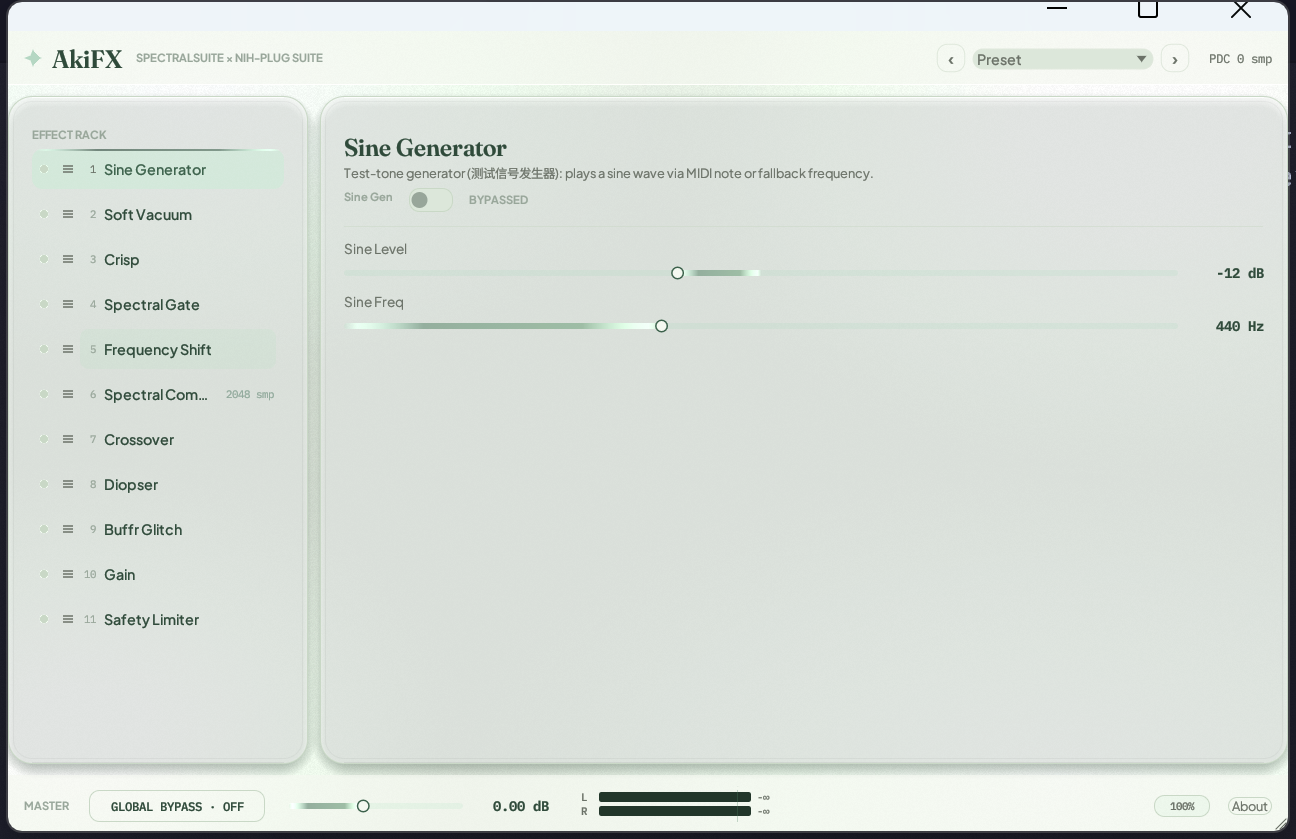
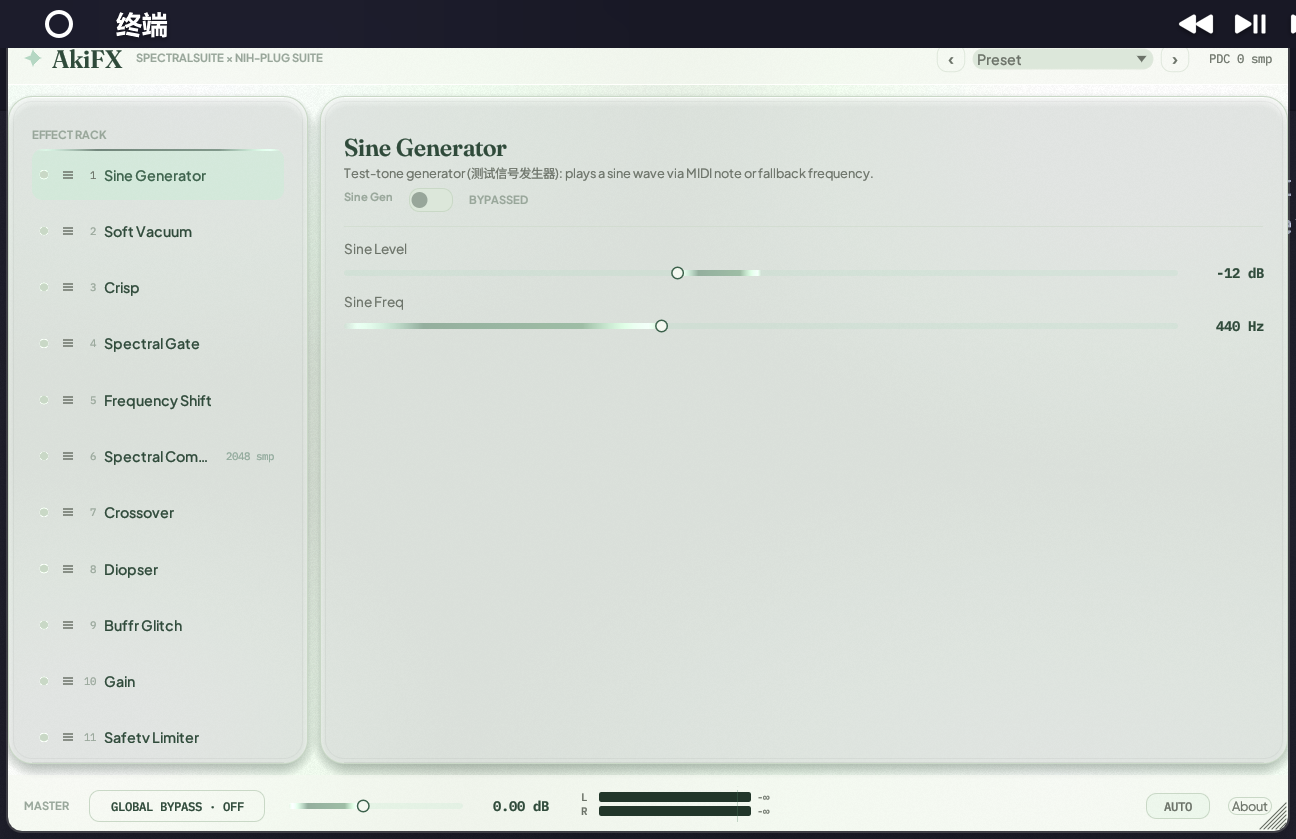
feat(gui): AUTO zoom follows system DPI, rack rows fill the card
- new installs default to AUTO zoom: font sizes multiply the system display
  scale (baseview presents one physical pixel per point on Windows, so the
  window default/min sizes scale by the same factor — 1280x800 design points
  become e.g. 1920x1200 at 150%); the footer zoom button cycles
  AUTO/60-200% and reads AUTO
- the resize grip is bigger and easier to find (26px corner)
- rack rows share the card height exactly at default zoom (deterministic
  region from the card content rect), clamped so zoomed text scrolls
- visual gate passes; tests 183+32 green

diff --git a/akifx/src/gui/mod.rs b/akifx/src/gui/mod.rs
@@ -29,8 +29,26 @@ use theme::pal;
 // Constants
 // ---------------------------------------------------------------------------
 
-/// Default window dimensions (width, height).
-const DEFAULT_SIZE: (u32, u32) = (1280, 800);
+/// Default window dimensions in design points (width, height). The physical
+/// window is this multiplied by the system display scale — baseview presents
+/// at one physical pixel per point, so the DPI factor must be applied here
+/// as well as to the type sizes.
+const DEFAULT_SIZE: (f32, f32) = (1280.0, 800.0);
+/// Smallest usable editor size in design points.
+const MIN_SIZE: (f32, f32) = (1040.0, 680.0);
+
+/// The system display scale (1.0 on unscaled displays).
+fn dpi() -> f32 {
+    theme::system_scale_factor()
+}
+
+/// Default window size in physical pixels.
+fn default_window_size() -> (u32, u32) {
+    (
+        (DEFAULT_SIZE.0 * dpi()).round() as u32,
+        (DEFAULT_SIZE.1 * dpi()).round() as u32,
+    )
+}
 /// Row height for each rack entry.
 const ROW_HEIGHT: f32 = 40.0;
 /// Title bar height.
@@ -97,19 +115,25 @@ fn next_rack_position(cur_pos: usize, count: usize, key: egui::Key) -> usize {
 // T6: Zoom step helper
 // ---------------------------------------------------------------------------
 
-/// Discrete zoom steps (percent expressed as multiplier).
+/// Discrete zoom steps (percent expressed as multiplier). 0.0 = AUTO
+/// (follow the system display scale) sits below the list: stepping down from
+/// the smallest step wraps into AUTO.
 const ZOOM_STEPS: &[f32] = &[0.6, 0.8, 1.0, 1.25, 1.5, 2.0];
+const ZOOM_AUTO: f32 = 0.0;
 
-/// Compute the next zoom level by stepping through [`ZOOM_STEPS`].
+/// Compute the next zoom level by stepping through [`ZOOM_STEPS`], with
+/// [`ZOOM_AUTO`] (0.0) as the smallest setting.
 ///
 /// `direction`: +1 = zoom in (larger), -1 = zoom out (smaller).
-/// If `cur` doesn't match any step, the nearest step is used as the starting
-/// point. Clamps at the first/last step.
 fn zoom_step(cur: f32, direction: i32) -> f32 {
-    if ZOOM_STEPS.is_empty() || direction == 0 {
+    if direction == 0 {
         return cur;
     }
-    // Find the index of the nearest step to `cur`.
+    if cur <= ZOOM_AUTO + 0.01 {
+        // AUTO steps up into the first list entry; stepping down from AUTO
+        // stays in AUTO.
+        return if direction > 0 { ZOOM_STEPS[0] } else { ZOOM_AUTO };
+    }
     let nearest = ZOOM_STEPS
         .iter()
         .enumerate()
@@ -120,10 +144,14 @@ fn zoom_step(cur: f32, direction: i32) -> f32 {
         })
         .map(|(i, _)| i)
         .unwrap_or(0);
-    let next = (nearest as isize + direction as isize)
-        .max(0)
-        .min(ZOOM_STEPS.len() as isize - 1) as usize;
-    ZOOM_STEPS[next]
+    let next = (nearest as isize + direction as isize) as usize;
+    if next >= ZOOM_STEPS.len() {
+        // Stepping up past the largest step wraps into AUTO (so AUTO is
+        // always reachable).
+        ZOOM_AUTO
+    } else {
+        ZOOM_STEPS[next]
+    }
 }
 
 // ---------------------------------------------------------------------------
@@ -259,8 +287,8 @@ pub fn create_editor(
     peak_r: Arc<AtomicF32>,
     spectrum_view: Option<crate::modules::spectral_compressor::analyzer::SpectrumView>,
 ) -> Option<Box<dyn Editor>> {
-    let egui_state = EguiState::from_size(DEFAULT_SIZE.0, DEFAULT_SIZE.1);
-    // Clone the Arc so the update closure can pass it to ResizableWindow.
+    let egui_state = EguiState::from_size(default_window_size().0, default_window_size().1);
+    // Clone the Arc so the update closure can drive the resize corner.
     let egui_state_for_resize = egui_state.clone();
 
     create_egui_editor(
@@ -296,14 +324,20 @@ pub fn create_editor(
             // which always presents at the system scale factor; scaling is
             // therefore implemented at the theme font-size level instead.)
             let z = *user_state.params.ui_zoom.lock();
-            let z_pct = (z * 100.0).round() as u32;
+            // 0.0 = AUTO: follow the system display scale (baseview does not
+            // apply DPI scaling to the egui renderer on Windows).
+            let effective = if z <= 0.01 { theme::system_scale_factor() } else { z };
+            let z_pct = (effective * 100.0).round() as u32;
             if theme::font_zoom_pct() != z_pct {
                 theme::set_font_zoom_pct(z_pct);
                 theme::apply_text_styles(ctx);
             }
 
             ResizableWindow::new("akifx_resize")
-                .min_size(Vec2::new(1040.0, 680.0))
+                .min_size(Vec2::new(
+                    MIN_SIZE.0 * theme::system_scale_factor(),
+                    MIN_SIZE.1 * theme::system_scale_factor(),
+                ))
                 .show(ctx, egui_state_for_resize.as_ref(), |ui| {
                     render_editor(ui, setter, user_state);
                 });
@@ -354,13 +388,14 @@ fn render_editor(ui: &mut egui::Ui, setter: &ParamSetter, state: &mut EditorStat
             let (rack_rect, _) =
                 ui.allocate_exact_size(Vec2::new(rack_w, middle_height), egui::Sense::hover());
             let rack_content = paint::glass_card(ui.painter(), rack_rect);
+            let rack_content_h = rack_content.height();
             ui.allocate_new_ui(
                 egui::UiBuilder::new()
                     .max_rect(rack_content)
                     .id_salt("akifx_rack_card")
                     .layout(egui::Layout::top_down(egui::Align::LEFT)),
                 |ui| {
-                    render_rack_panel(ui, state, rack_w);
+                    render_rack_panel(ui, state, rack_w, rack_content_h);
                 },
             );
 
@@ -646,11 +681,24 @@ fn render_title_bar(ui: &mut egui::Ui, setter: &ParamSetter, state: &mut EditorS
     });
 }
 
-fn render_rack_panel(ui: &mut egui::Ui, state: &mut EditorState, rack_w: f32) {
+fn render_rack_panel(
+    ui: &mut egui::Ui,
+    state: &mut EditorState,
+    rack_w: f32,
+    card_content_h: f32,
+) {
     let p = pal();
     ui.add_space(8.0);
     ui.label(theme::eyebrow("Effect Rack"));
     ui.add_space(4.0);
+
+    // Rows stretch to fill the card exactly at the default zoom: the module
+    // count shares the card content height minus the header block (top gap +
+    // eyebrow + spacing + rounding safety). Clamped so zoomed-in text
+    // scrolls instead of squashing, and zoomed-out text still fits its rows.
+    let region_h = (card_content_h - 34.0).max(200.0);
+    let pitch = (region_h / crate::MODULE_COUNT as f32).clamp(ROW_HEIGHT + 2.0, 76.0);
+    let row_h = (pitch - 2.0).max(28.0 * theme::font_zoom());
 
     // Snapshot order once per frame (clone under lock, drop lock immediately).
     let order_snapshot = state.order.lock().clone();
@@ -776,7 +824,7 @@ fn render_rack_panel(ui: &mut egui::Ui, state: &mut EditorState, rack_w: f32) {
                 // derives from sel_rect response instead.
                 let row_rect = Rect::from_min_size(
                     ui.cursor().min,
-                    Vec2::new(ui.available_width().min(rack_w - 48.0), ROW_HEIGHT),
+                    Vec2::new(ui.available_width().min(rack_w - 48.0), row_h),
                 );
                 // Advance layout past the row WITHOUT registering any
                 // interactable (Sense::hover()/click() on this full-row rect
@@ -836,7 +884,7 @@ fn render_rack_panel(ui: &mut egui::Ui, state: &mut EditorState, rack_w: f32) {
                 // T1: LED click zone (left 24px)
                 let led_zone = Rect::from_min_size(
                     row_rect.min,
-                    Vec2::new(24.0, ROW_HEIGHT),
+                    Vec2::new(24.0, row_h),
                 );
                 let led_resp = ui.allocate_rect(led_zone, egui::Sense::click())
                     .on_hover_cursor(CursorIcon::PointingHand);
@@ -844,7 +892,7 @@ fn render_rack_panel(ui: &mut egui::Ui, state: &mut EditorState, rack_w: f32) {
                 // T1: Grip drag zone (24px..48px)
                 let grip_zone = Rect::from_min_size(
                     Pos2::new(row_rect.left() + 24.0, row_rect.top()),
-                    Vec2::new(24.0, ROW_HEIGHT),
+                    Vec2::new(24.0, row_h),
                 );
                 let grip_resp = ui.allocate_rect(grip_zone, egui::Sense::drag())
                     .on_hover_cursor(CursorIcon::Grab);
@@ -852,7 +900,7 @@ fn render_rack_panel(ui: &mut egui::Ui, state: &mut EditorState, rack_w: f32) {
                 // T1: Selection strip (48px..right-8) — also drives is_hovered
                 let sel_zone = Rect::from_min_size(
                     Pos2::new(row_rect.left() + 48.0, row_rect.top()),
-                    Vec2::new((rack_w - 48.0 - 48.0 - 8.0).max(40.0), ROW_HEIGHT),
+                    Vec2::new((rack_w - 48.0 - 48.0 - 8.0).max(40.0), row_h),
                 );
                 let sel_resp_zone = ui.allocate_rect(sel_zone, egui::Sense::click());
                 let is_hovered = !drag.active && !is_selected && sel_resp_zone.hovered();
@@ -931,7 +979,7 @@ fn render_rack_panel(ui: &mut egui::Ui, state: &mut EditorState, rack_w: f32) {
                         pal().text_tertiary
                     };
                     p.text(
-                        Pos2::new(row_rect.left() + 52.0, row_rect.top() + ROW_HEIGHT * 0.5),
+                        Pos2::new(row_rect.left() + 52.0, row_rect.top() + row_h * 0.5),
                         egui::Align2::LEFT_CENTER,
                         format!("{:>2}", pos + 1),
                         theme::mono(11.0),
@@ -947,7 +995,7 @@ fn render_rack_panel(ui: &mut egui::Ui, state: &mut EditorState, rack_w: f32) {
                             .size()
                             .x;
                         p.text(
-                            Pos2::new(row_rect.right() - 10.0, row_rect.top() + ROW_HEIGHT * 0.5),
+                            Pos2::new(row_rect.right() - 10.0, row_rect.top() + row_h * 0.5),
                             egui::Align2::RIGHT_CENTER,
                             text,
                             theme::mono(10.5),
@@ -965,7 +1013,7 @@ fn render_rack_panel(ui: &mut egui::Ui, state: &mut EditorState, rack_w: f32) {
                     let name_text =
                         truncate_to_width(p, entry.name, theme::sans_medium(14.0), name_max_w);
                     p.text(
-                        Pos2::new(name_x, row_rect.top() + ROW_HEIGHT * 0.5),
+                        Pos2::new(name_x, row_rect.top() + row_h * 0.5),
                         egui::Align2::LEFT_CENTER,
                         name_text,
                         theme::sans_medium(14.0),
@@ -1750,20 +1798,25 @@ fn render_footer(ui: &mut egui::Ui, setter: &ParamSetter, state: &mut EditorStat
 
             ui.add_space(10.0);
 
-            // UI zoom cycle button (60 -> 80 -> 100 -> 125 -> 150 -> 200)
+            // UI zoom cycle button: AUTO (system scale) -> 60 -> ... -> 200
             let z = *state.params.ui_zoom.lock();
+            let zoom_label = if z <= 0.01 {
+                "AUTO".to_owned()
+            } else {
+                format!("{:.0}%", z * 100.0)
+            };
             let zoom_btn = ui.add(
                 egui::Button::new(
-                    RichText::new(format!("{:.0}%", z * 100.0))
-                        .font(theme::mono_medium(11.0))
+                    RichText::new(zoom_label)
+                        .font(theme::mono_medium(12.5))
                         .color(p.text_secondary),
                 )
                 .fill(theme::with_alpha(p.text_primary, 0.06))
                 .stroke(Stroke::new(1.0, p.border))
-                .min_size(Vec2::new(56.0, 22.0)),
+                .min_size(Vec2::new(64.0, 26.0)),
             );
             if zoom_btn
-                .on_hover_text("UI zoom \u{2014} click to cycle 60\u{2013}200%")
+                .on_hover_text("UI zoom \u{2014} click to cycle AUTO/60\u{2013}200% (AUTO follows the system display scale)")
                 .clicked()
             {
                 *state.params.ui_zoom.lock() = zoom_step(z, 1);
@@ -2123,13 +2176,24 @@ mod tests {
     }
 
     #[test]
-    fn zoom_step_in_clamps_at_max() {
-        assert!((zoom_step(2.0, 1) - 2.0).abs() < 1e-6);
+    fn zoom_step_in_past_max_wraps_into_auto() {
+        assert!(zoom_step(2.0, 1).abs() < 1e-6);
     }
 
     #[test]
-    fn zoom_step_out_clamps_at_min() {
-        assert!((zoom_step(0.6, -1) - 0.6).abs() < 1e-6);
+    fn zoom_step_out_past_min_wraps_into_auto() {
+        assert!(zoom_step(0.6, -1).abs() < 1e-6);
+    }
+
+    #[test]
+    fn zoom_step_auto_up_enters_list() {
+        assert!((zoom_step(0.0, 1) - 0.6).abs() < 1e-6);
+    }
+
+    #[test]
+    fn zoom_step_auto_down_stays_auto() {
+        assert!(zoom_step(0.0, -1).abs() < 1e-6);
+        assert!(zoom_step(0.0, 0).abs() < 1e-6);
     }
 
     #[test]

diff --git a/akifx/src/gui/theme.rs b/akifx/src/gui/theme.rs
@@ -171,6 +171,48 @@ pub fn grain_color() -> Color32 {
 }
 
 // ---------------------------------------------------------------------------
+// System display scale (AUTO zoom)
+// ---------------------------------------------------------------------------
+
+/// The system display scale factor (1.0 = 96 DPI). baseview does not apply
+/// DPI scaling to the egui renderer on Windows, so AUTO zoom reads this
+/// directly and multiplies every font size by it. Cached after first read.
+pub fn system_scale_factor() -> f32 {
+    static SCALE: std::sync::OnceLock<f32> = std::sync::OnceLock::new();
+    *SCALE.get_or_init(|| system_scale_factor_uncached().clamp(1.0, 3.0))
+}
+
+#[cfg(windows)]
+fn system_scale_factor_uncached() -> f32 {
+    #[link(name = "user32")]
+    unsafe extern "system" {
+        fn GetDC(hwnd: *mut core::ffi::c_void) -> *mut core::ffi::c_void;
+        fn ReleaseDC(hwnd: *mut core::ffi::c_void, hdc: *mut core::ffi::c_void) -> i32;
+    }
+    #[link(name = "gdi32")]
+    unsafe extern "system" {
+        fn GetDeviceCaps(hdc: *mut core::ffi::c_void, index: i32) -> i32;
+    }
+    const LOGPIXELSX: i32 = 88;
+    unsafe {
+        let hdc = GetDC(std::ptr::null_mut());
+        let dpi = if hdc.is_null() {
+            96
+        } else {
+            let dpi = GetDeviceCaps(hdc, LOGPIXELSX);
+            ReleaseDC(std::ptr::null_mut(), hdc);
+            if dpi > 0 { dpi } else { 96 }
+        };
+        dpi as f32 / 96.0
+    }
+}
+
+#[cfg(not(windows))]
+fn system_scale_factor_uncached() -> f32 {
+    1.0
+}
+
+// ---------------------------------------------------------------------------
 // Derived-color helpers — the `color-mix(...)` equivalents (§3.6)
 // ---------------------------------------------------------------------------
 
@@ -322,6 +364,10 @@ pub fn configure_visuals(ctx: &egui::Context) {
     // Windows: glass card treatment (translucent + border + soft shadow)
     v.window_shadow = card_shadow();
     v.window_stroke = Stroke::new(1.0, p.liquid_border);
+
+    // A drag grip you can actually find and grab (baseview windows resize
+    // through the plugin API corner, not the OS frame)
+    v.resize_corner_size = 26.0;
 
     ctx.set_visuals(v);
     apply_text_styles(ctx);

diff --git a/akifx/src/modules/registry.rs b/akifx/src/modules/registry.rs
@@ -41,7 +41,8 @@ macro_rules! define_modules {
             #[persist = "module_order"]
             pub module_order: parking_lot::Mutex<Vec<usize>>,
 
-            /// Persisted UI zoom level. 1.0 = 100%.
+            /// Persisted UI zoom level. 1.0 = 100%; 0.0 = AUTO (follow the
+            /// system display scale), the fresh-install default.
             #[persist = "ui_zoom"]
             pub ui_zoom: parking_lot::Mutex<f32>,
 
@@ -60,7 +61,7 @@ macro_rules! define_modules {
                     )*
                     global_bypass: nih_plug::prelude::BoolParam::new("Global Bypass", false),
                     module_order: parking_lot::Mutex::new((0..MODULE_COUNT).collect()),
-                    ui_zoom: parking_lot::Mutex::new(1.0),
+                    ui_zoom: parking_lot::Mutex::new(0.0),
                     module_enabled: parking_lot::Mutex::new(vec![false; MODULE_COUNT]),
                 }
             }
